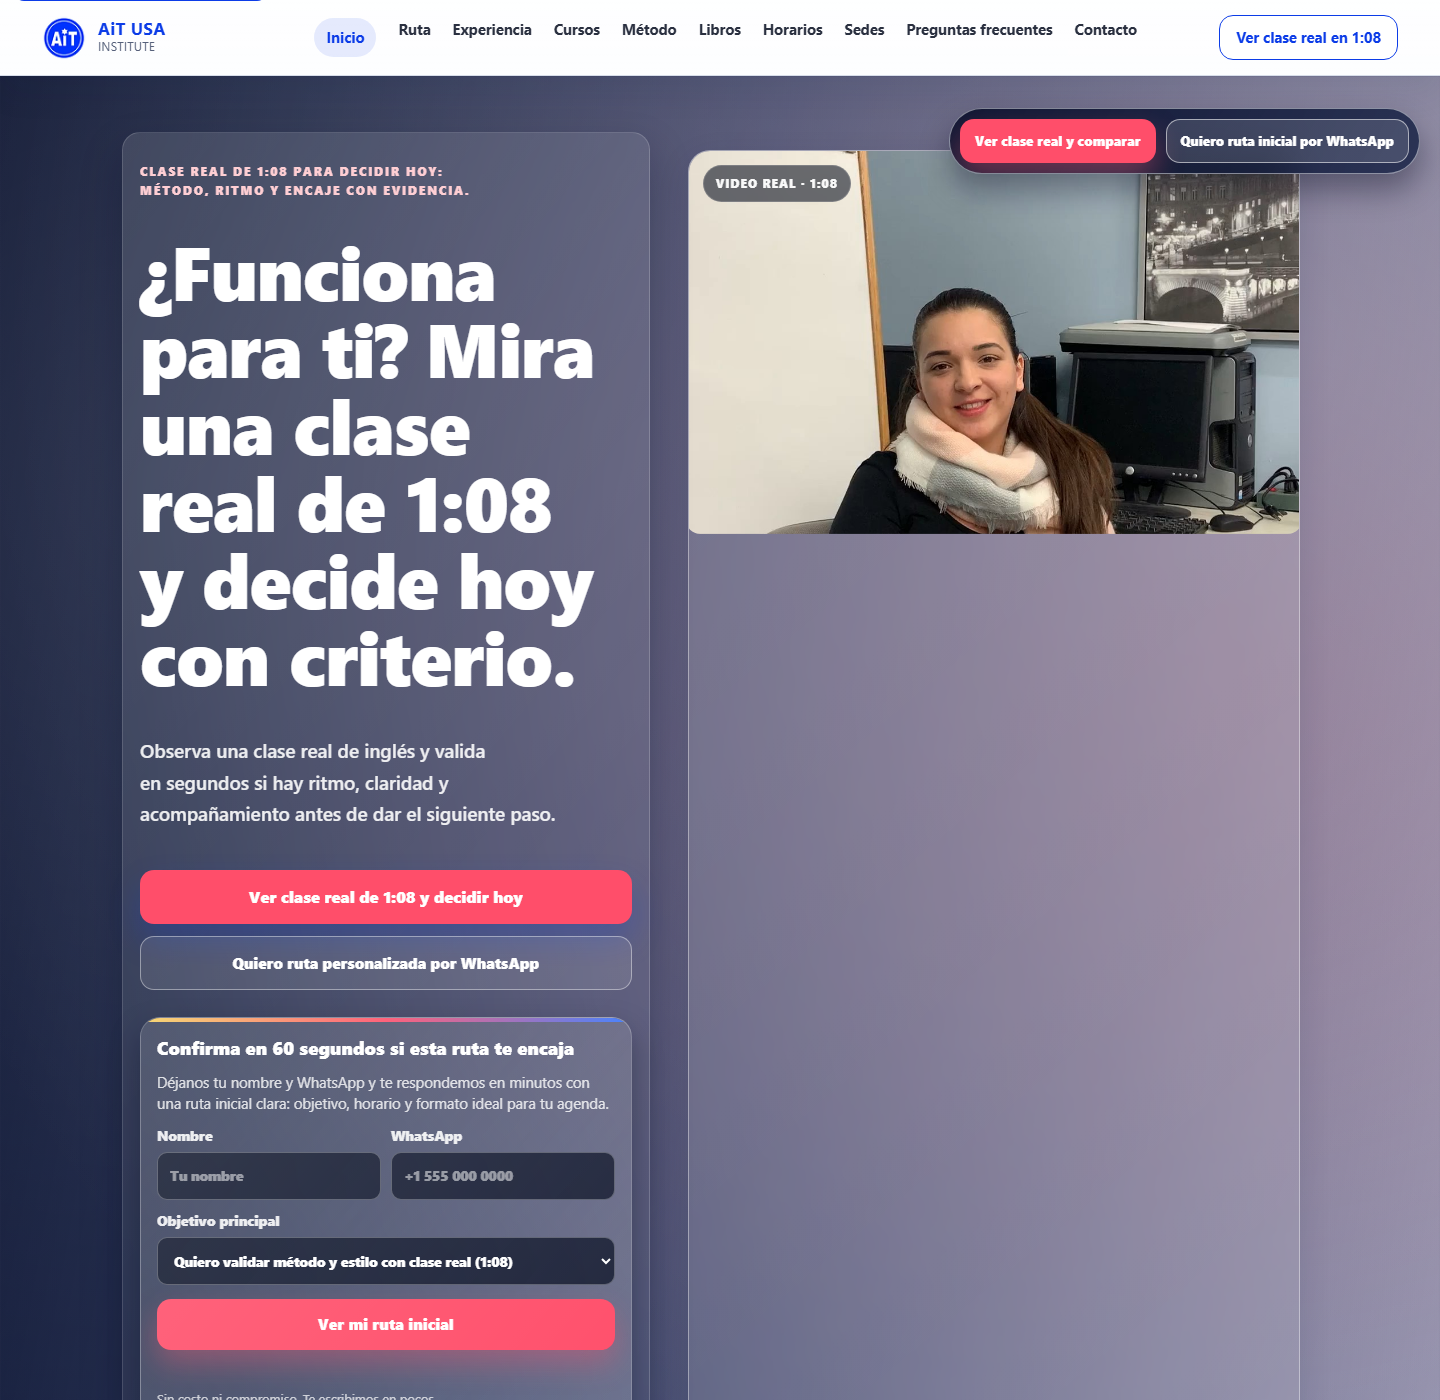
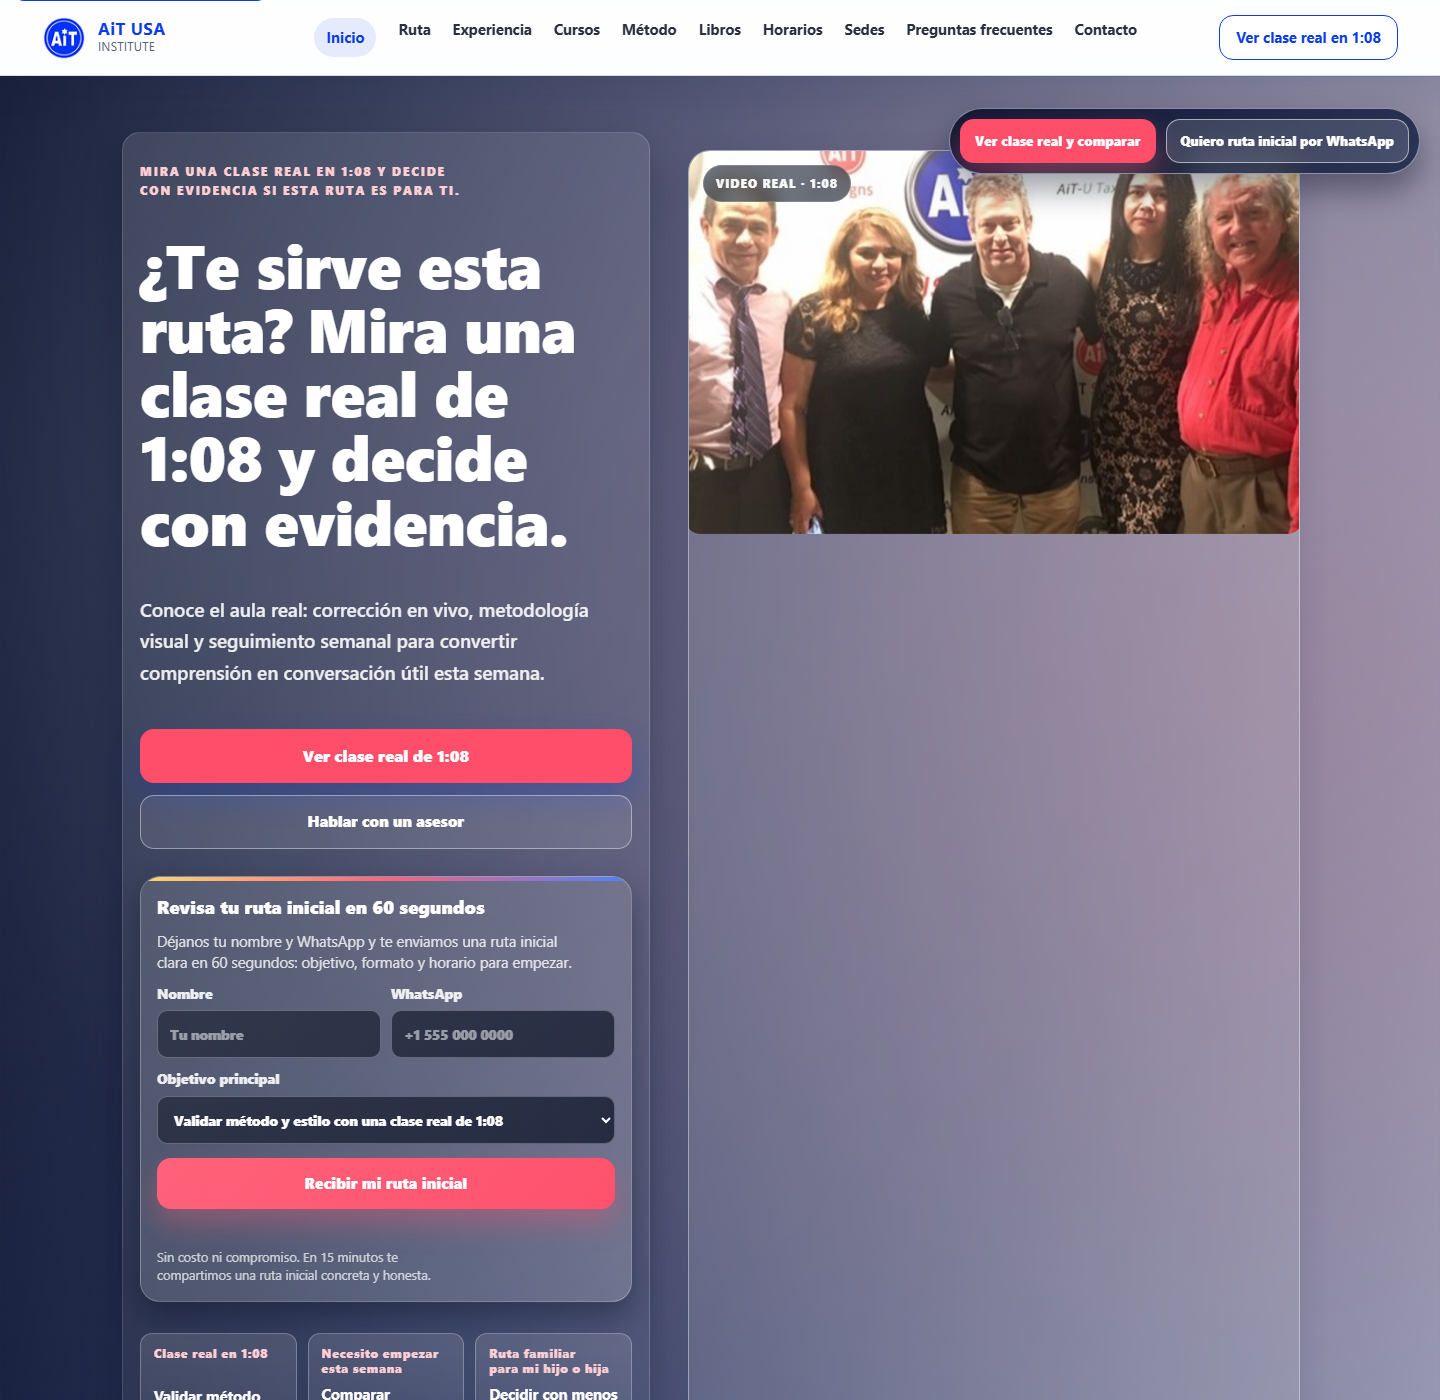
Improve hero copy, SEO, and responsive typography

Changed region(s): [[0.0938, 0.5221, 0.4375, 1.0], [0.4688, 0.0921, 0.9062, 0.3993], [0.0938, 0.1229, 0.4375, 0.4914]]

diff --git a/src/content.js b/src/content.js
@@ -5,21 +5,21 @@ const site = {
   name: "AiT USA Institute",
   legal: "Division of Arrieta Institute LLC",
   tagline:
-    "No adivines si funciona. Mira una clase real en 1:08 y decide con evidencia.",
+    "Mira una clase real en 1:08 y decide con evidencia si esta ruta es para ti.",
   description:
-    "Mira una clase real de inglés y decide en minutos si nuestro método, ritmo y seguimiento encajan con tus metas y tu agenda.",
+    "Mira una clase real de inglés y decide en minutos si nuestro método, ritmo y seguimiento encajan con tus metas, tu tiempo y tu objetivo.",
   heroHeadline:
     "¿Te sirve esta ruta? Mira una clase real de 1:08 y decide con evidencia.",
   heroLead:
-    "Conoce el aula real: corrección en vivo, metodología visual y seguimiento semanal para convertir tu comprensión en conversación útil esta semana.",
+    "Conoce el aula real: corrección en vivo, metodología visual y seguimiento semanal para convertir comprensión en conversación útil esta semana.",
   heroQuote:
     "Lo que ves es la clase real: conversación auténtica, feedback inmediato y práctica aplicada en vivo desde el primer minuto.",
   heroMicrocopy:
-    "Reprodúcela y decide si el ritmo, ambiente y estilo de clase te permiten avanzar con menos bloqueo.",
+    "Reprodúcela, mira el nivel de seguimiento y decide en 60 segundos si este formato te sirve hoy.",
   heroQuickCapture: {
     title: "Revisa tu ruta inicial en 60 segundos",
     copy:
-      "Déjanos tu nombre y WhatsApp y te enviamos una ruta inicial clara: objetivo, formato (presencial, híbrido u online) y horario para empezar ya.",
+      "Déjanos tu nombre y WhatsApp y te enviamos una ruta inicial clara en 60 segundos: objetivo, formato y horario para empezar.",
     options: [
       "Validar método y estilo con una clase real de 1:08",
       "Comparar presencial, híbrido y online con mi agenda",
@@ -28,12 +28,12 @@ const site = {
       "Empezar esta semana",
     ],
     button: "Recibir mi ruta inicial",
-    note: "Sin costo ni compromiso. En 15 minutos te compartimos una ruta inicial concreta.",
+    note: "Sin costo ni compromiso. En 15 minutos te compartimos una ruta inicial concreta y honesta.",
   },
   heroHighlights: [
     "Clase real desde el primer minuto para validar método, ritmo y estilo.",
-    "Compara presencial, híbrido y online según tu disponibilidad.",
-    "Recibe un plan de arranque y empieza con claridad esta semana.",
+    "Compara presencial, híbrido y online de forma realista y sin suposiciones.",
+    "Recibe un plan de arranque y empieza con más claridad esta semana.",
   ],
   canonical: "https://www.aitusainstitute.com/",
   founded: "2004",
@@ -47,7 +47,7 @@ const site = {
   seoDescription:
     "Mira una clase real de inglés de 1:08 y decide con evidencia si esta ruta te conviene. Elige presencial, híbrido u online en Nueva Jersey y define tu mejor horario.",
   seoKeywords:
-    "AiT USA Institute, clases de inglés Nueva Jersey, clase real de inglés, clases presenciales de inglés, clases híbridas, clases online, clase demo, método visual, ruta personalizada, Bound Brook, Plainfield, Piscataway",
+    "AiT USA Institute, clases de inglés Nueva Jersey, clase real de inglés, clases presenciales de inglés, clases híbridas, clases online, clase demo, método visual, ruta personalizada, Bound Brook, Plainfield, Piscataway, entrevista de trabajo en inglés, inglés conversacional para adultos",
   seoImage: assetHires("hero-classroom.jpg"),
   seoImageAlt: "Instructora de AiT USA enseñando clase real de inglés en Nueva Jersey.",
   seoVideo: asset("live/hero-female-speaking-1080p.mp4"),

diff --git a/src/styles.css b/src/styles.css
@@ -621,6 +621,8 @@ select {
   color: rgba(255, 255, 255, 0.86);
   font-size: 0.77rem;
   line-height: 1.35;
+  overflow-wrap: anywhere;
+  hyphens: auto;
 }
 
 .hero__media-quickfacts {
@@ -914,10 +916,12 @@ select {
 
 .hero h1 {
   max-width: 760px;
-  font-size: var(--text-xl);
+  font-size: clamp(2.2rem, 6.3vw, 3.9rem);
   letter-spacing: -0.01em;
   font-family: var(--font-display);
   text-wrap: balance;
+  overflow-wrap: anywhere;
+  hyphens: auto;
 }
 
 .hero__lead {
@@ -978,6 +982,8 @@ select {
   color: rgba(255, 255, 255, 0.86);
   font-size: 0.84rem;
   line-height: 1.4;
+  overflow-wrap: anywhere;
+  hyphens: auto;
 }
 
 .hero__proof-item__cta {
@@ -1852,6 +1858,13 @@ select {
 .section--blue p,
 .section--contact p {
   color: rgba(255, 255, 255, 0.78);
+}
+
+.section p,
+.section li,
+.section h3 {
+  overflow-wrap: anywhere;
+  hyphens: auto;
 }
 
 .section h2 {
@@ -4177,11 +4190,11 @@ select {
   }
 
   .hero h1 {
-    font-size: 3.8rem;
+    font-size: clamp(2.45rem, 7.4vw, 3.8rem);
   }
 
   .section h2 {
-    font-size: 3rem;
+    font-size: clamp(2.1rem, 4.8vw, 3.1rem);
   }
 
   .hero__proof,
@@ -4370,7 +4383,7 @@ select {
   }
 
   .hero h1 {
-    font-size: 2.9rem;
+    font-size: clamp(2rem, 8vw, 2.9rem);
   }
 
   .hero__media-frame--hero-primary,
@@ -4435,7 +4448,7 @@ select {
   }
 
   .section h2 {
-    font-size: 2.25rem;
+    font-size: clamp(1.9rem, 7.5vw, 2.5rem);
   }
 
   .instructor-reel {
@@ -4562,7 +4575,7 @@ select {
 
 @media (max-width: 420px) {
   .hero h1 {
-    font-size: 2.45rem;
+    font-size: clamp(2rem, 10vw, 2.5rem);
   }
 
   .hero__lead {
@@ -4570,7 +4583,7 @@ select {
   }
 
   .section h2 {
-    font-size: 2rem;
+    font-size: clamp(1.7rem, 8vw, 2.1rem);
   }
 
   .button {

diff --git a/index.html b/index.html
@@ -47,9 +47,9 @@
   <meta name="twitter:image:height" content="1080" />
   <meta name="twitter:image:alt" content="Instructora de AiT USA enseñando clase real de inglés en Nueva Jersey." />
   <title>AiT USA Institute | Clase real de inglés en 1:08 | Nueva Jersey</title>
-    <meta
+  <meta
     name="keywords"
-    content="AiT USA Institute, clase real de inglés, clases presenciales de inglés, clases híbridas, clases online, curso de inglés en Nueva Jersey, clase demo de inglés, metodología visual, ruta personalizada"
+    content="AiT USA Institute, clases de inglés Nueva Jersey, clase real de inglés, clases presenciales de inglés, clases híbridas, clases online, entrevista de trabajo en inglés, inglés conversacional para adultos, ruta personalizada de estudio"
   />
     <meta name="author" content="AiT USA Institute" />
     <meta name="geo.country" content="US" />
